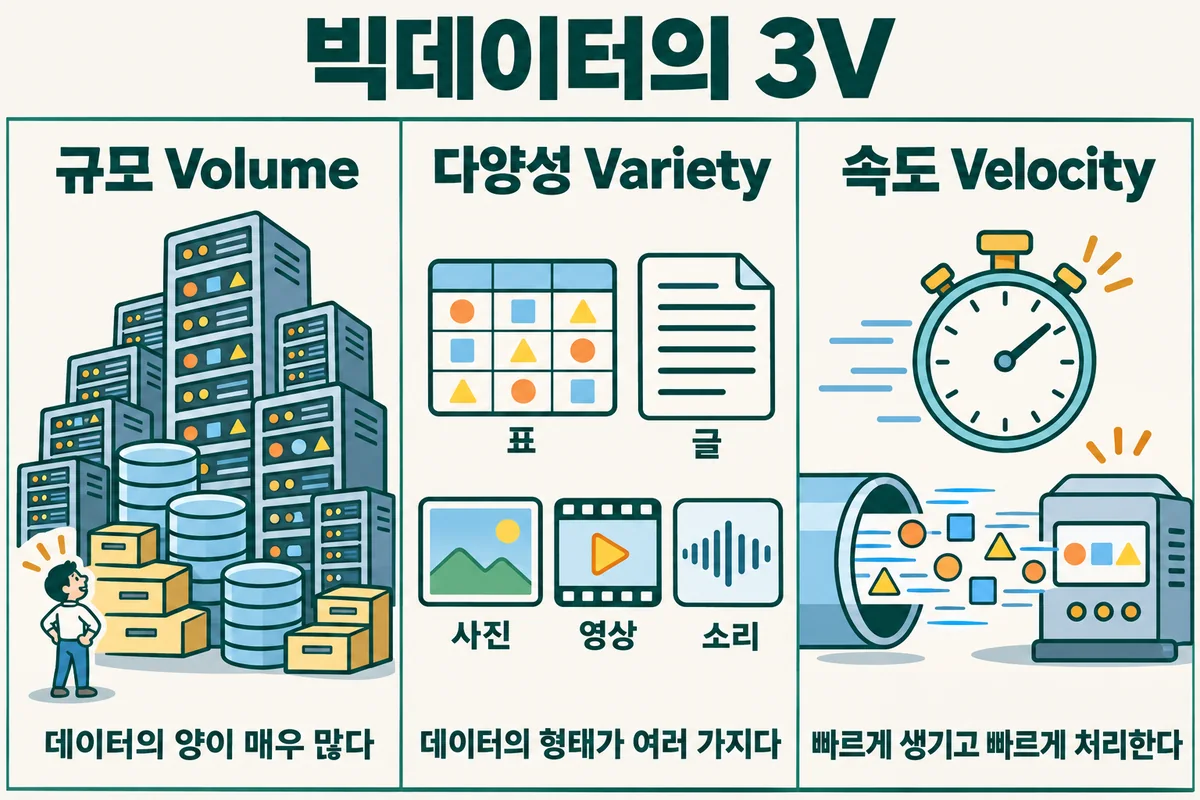
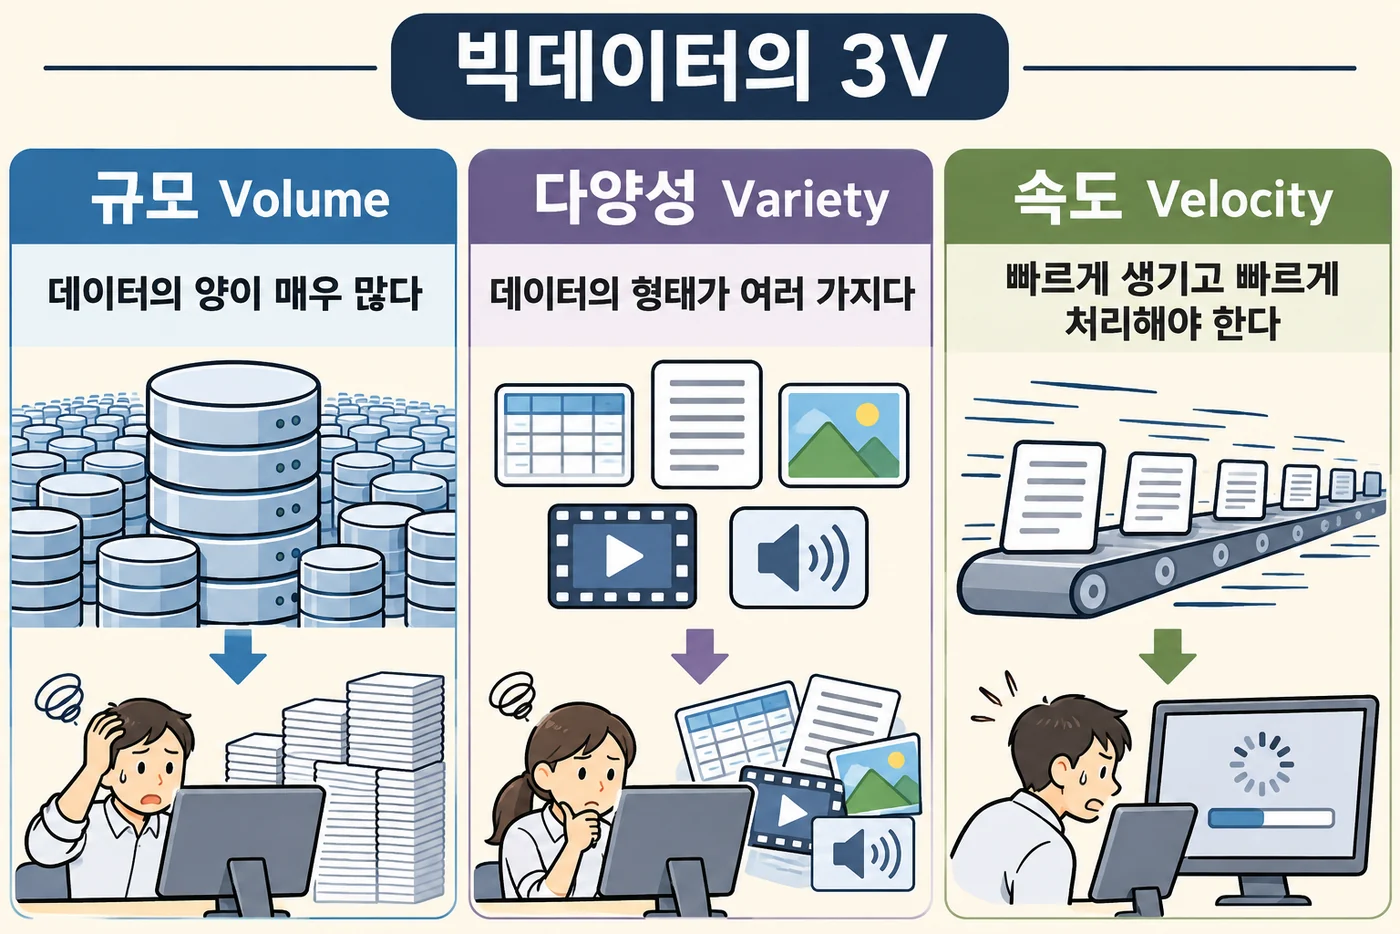
빅분기: 3V 그림을 손그림 삽화로 교체

diff --git a/bigdata/notes/1-planning/01-빅데이터란.html b/bigdata/notes/1-planning/01-빅데이터란.html
@@ -98,8 +98,8 @@
 <p>"기존 방법으로 안 되는 이유"를 세 가지로 정리한 것이 3V입니다. 세 낱말이 모두 영어 V로 시작해서 붙은 이름입니다. 2001년에 더그 레이니(Doug Laney)라는 분석가가 이렇게 정리했고, 지금까지 빅데이터를 설명하는 기본 틀로 쓰입니다.</p>
 
 <figure class="fig">
-<img src="../../img/1-01-3v.webp" width="1200" height="800" loading="lazy" decoding="async" alt="빅데이터의 3V를 세 칸으로 그린 그림. 규모(Volume): 사람보다 훨씬 높이 쌓인 서버와 상자, 데이터의 양이 매우 많다. 다양성(Variety): 표, 글, 사진, 영상, 소리, 데이터의 형태가 여러 가지다. 속도(Velocity): 초시계와 관에서 쏟아져 나오는 데이터, 빠르게 생기고 빠르게 처리한다.">
-<figcaption>빅데이터의 3V. 규모, 다양성, 속도.</figcaption>
+<img src="../../img/1-01-3v.webp" width="1400" height="933" loading="lazy" decoding="async" alt="빅데이터의 3V. 규모(Volume): 데이터의 양이 매우 많다. 저장 장치가 끝없이 늘어서 있고, 종이 더미 앞에서 사람이 머리를 싸맨다. 다양성(Variety): 데이터의 형태가 여러 가지다. 표, 글, 사진, 영상, 소리가 섞여 있어 사람이 고민한다. 속도(Velocity): 빠르게 생기고 빠르게 처리해야 한다. 문서가 컨베이어 벨트로 밀려오는데 컴퓨터는 아직 처리 중이다.">
+<figcaption>빅데이터의 3V. 아래 칸은 기존 방법으로 감당하지 못하는 모습이다.</figcaption>
 </figure>
 
 <h3>규모 (Volume) <span class="tag memo">외우기</span></h3>
